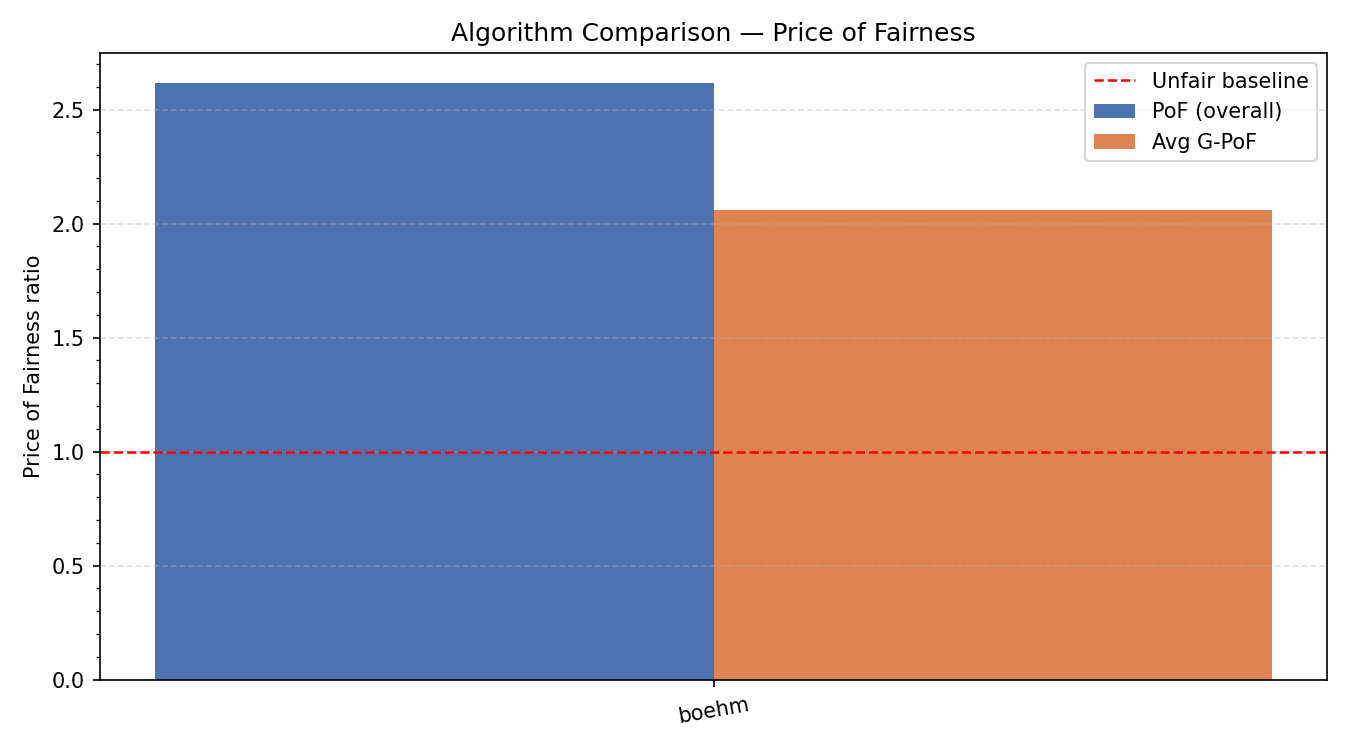
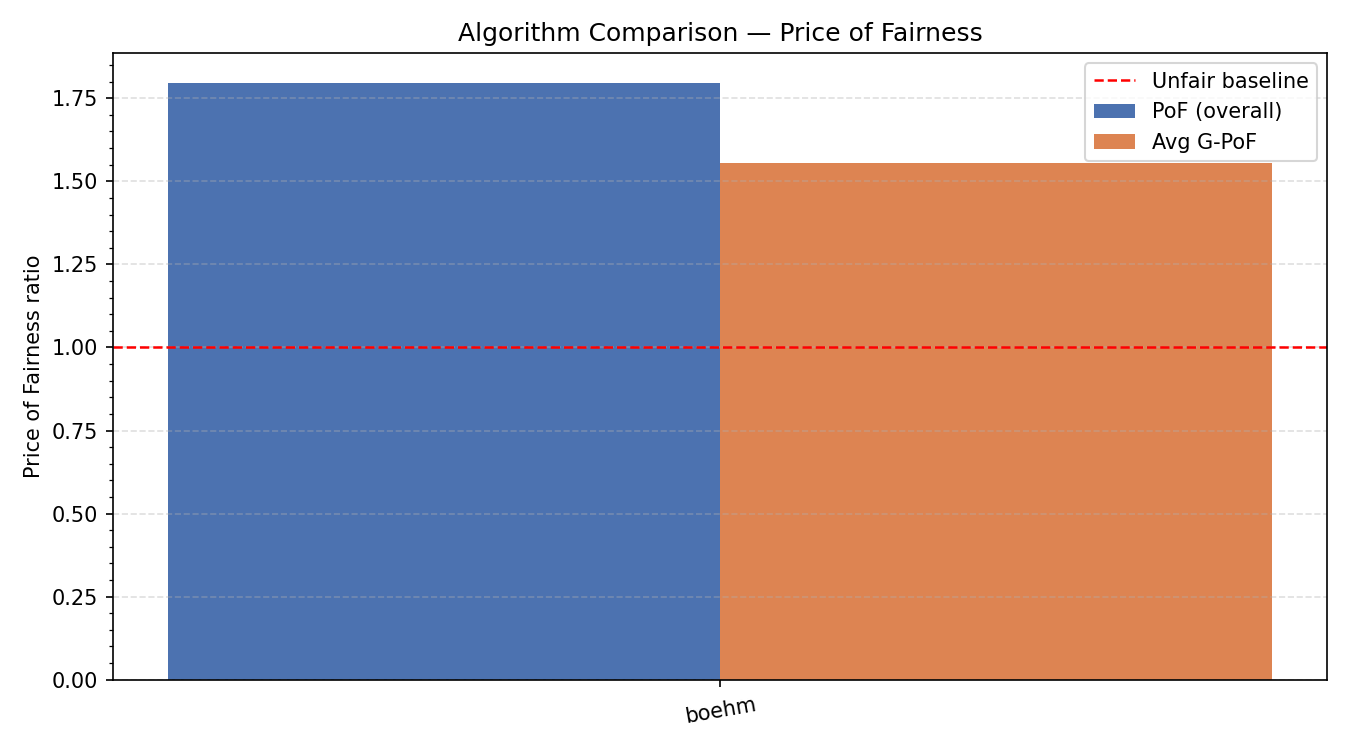
new boehm clustering

Changed region(s): [[0.0311, 0.0613, 0.9644, 0.92], [0.3422, 0.0307, 0.7467, 0.0613], [0.4978, 0.92, 0.56, 0.9813]]

diff --git a/algorithms/main_backurs_fair_clustering.py b/algorithms/main_backurs_fair_clustering.py
@@ -636,7 +636,7 @@ def fair_clustering(
           f"Unfair cost: {unfair_cost:,.2f}   "
           f"PoF: {pof:.4f}")
 
-    return (fair_centers, unfair_labels, unfair_cost,
+    return (unfair_centers, unfair_labels, unfair_cost, fair_centers,
             fair_labels, fair_cost, timing,
             x, group_codes, group_names,
             lower_bounds, upper_bounds)
@@ -679,7 +679,7 @@ if __name__ == "__main__":
     K = 10
     ALPHA = 0.05
 
-    (fair_centers, unfair_labels, unfair_cost,
+    (unfair_centers, unfair_labels, unfair_cost, fair_centers,
      fair_labels, fair_cost, timing,
      x, group_codes, group_names,
      lower_bounds, upper_bounds) = fair_clustering(
@@ -706,7 +706,7 @@ if __name__ == "__main__":
 
     unfair_result = make_result(
         algorithm="kmedian-unfair-baseline",
-        centers=fair_centers,
+        centers=unfair_centers,
         labels=unfair_labels,
         fair_cost=unfair_cost,
         unfair_cost=unfair_cost,

diff --git a/algorithms/main_boehm_fair_clustering.py b/algorithms/main_boehm_fair_clustering.py
@@ -218,10 +218,10 @@ if __name__ == "__main__":
     df = csv_loader.load_csv_chunked(
         "../us_census_puma_data.csv",
         csv_loader.LOAD_COLS,
-        max_rows=2_000,
+        max_rows=10_000,
     )
 
-    df_processed = csv_loader.preprocess_dataset(df, ['RACE_6'])
+    df_processed = csv_loader.preprocess_dataset(df, ['RACE_BINARY'])
 
     FEATURE_COLS = ["Lat_Scaled", "Lon_Scaled"]
     PROTECTED_COL = "GROUP_ID"
